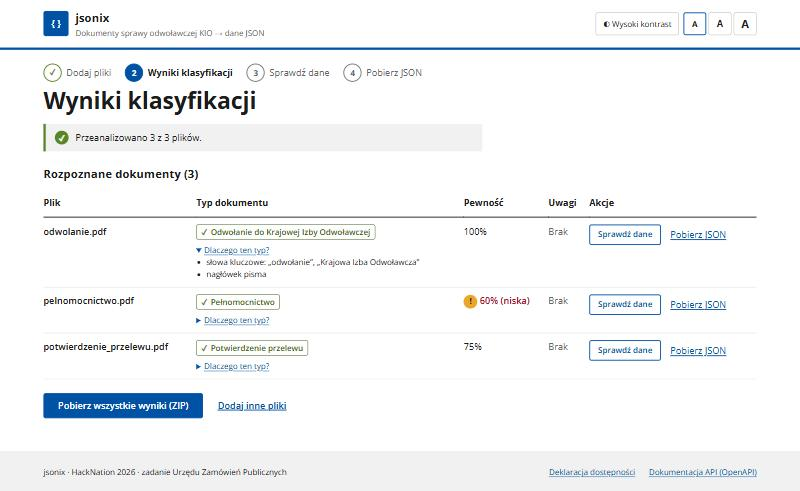
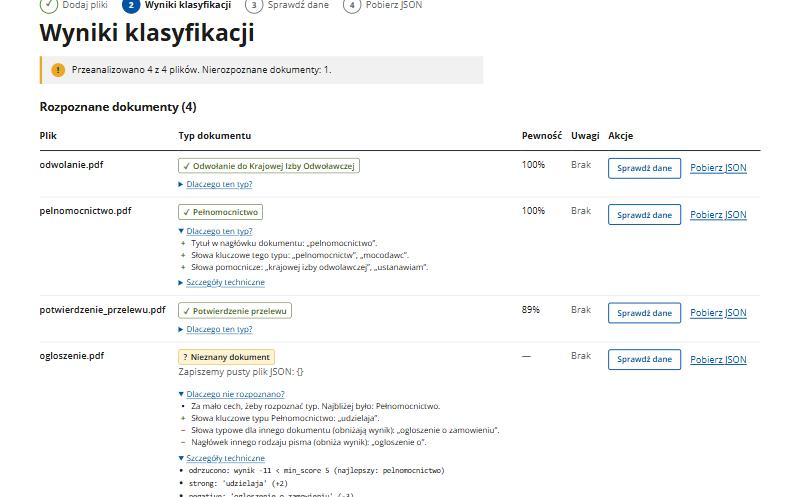
feat(gui): czytelne „Dlaczego ten typ?” i kontrast podświetleń w PDF
- evidence.js: cechy klasyfikatora E3 jako zdania po polsku (tytuł, słowa
  kluczowe i pomocnicze, wzorce, cechy obniżające wynik, powód odrzucenia
  z nazwą najbliższego typu); surowe cechy w „Szczegółach technicznych”
- fix: w trybie wysokiego kontrastu obramowania fragmentów w PDF były żółte
  na białej stronie (ok. 1,1:1); teraz stałe kolory, w kontraście czarne
- testy (Node) dla wszystkich formatów evidence i reguł kontrastu

Changed region(s): [[0.0, 0.0, 1.0, 1.0], [0.5625, 0.5804, 0.9375, 0.7637], [0.6875, 0.947, 0.9688, 0.9776]]

diff --git a/web/static/js/evidence.js b/web/static/js/evidence.js
@@ -1,0 +1,92 @@
+// „Dlaczego ten typ?” — zamiana technicznych opisów cech klasyfikatora (classification.evidence,
+// np. "strong: 'odwolanie' (+2)") na zdania po polsku. Czysta funkcja bez DOM (testy w Node).
+//
+// Formaty z odw2json/classify (E3):
+//   "<rodzaj>: <frazy w apostrofach> (<punkty>)"  rodzaj: strong | weak | negative | title | pattern | foreign title
+//   "odrzucono: wynik X < min_score Y (najlepszy: <typ>)"
+//   "odrzucono: margines X < min_margin Y (najlepszy: <typ>)"
+//   "odrzucono: <typ>: brak wymaganej cechy (required_any: …); <typ>: …"
+// Nieznany format jest pokazywany bez zmian (nowe cechy klasyfikatora nie znikają z GUI).
+
+const FEATURE = /^(strong|weak|negative|title|pattern|foreign title): (.*) \(([+-]?[\d.]+)\)$/;
+const QUOTED = /'((?:[^'\\]|\\.)*)'|"((?:[^"\\]|\\.)*)"/g;
+const NONE_FOUND = "Nie znaleziono cech żadnego z obsługiwanych typów dokumentów.";
+
+function phrases(text) {
+  return [...text.matchAll(QUOTED)].map((m) => m[1] ?? m[2]);
+}
+
+function quoteList(items) {
+  return items.map((p) => `„${p}”`).join(", ");
+}
+
+/** Powód odrzucenia → {text, best}; best = najbliższy typ (cechy w evidence dotyczą właśnie jego). */
+function rejection(rest, label, hasFeatures) {
+  let m = rest.match(/^wynik (-?[\d.]+) < min_score [\d.]+ \(najlepszy: ([\w-]+)\)$/);
+  if (m) {
+    const some = Number(m[1]) > 0 || hasFeatures;
+    return {
+      text: some ? `Za mało cech, żeby rozpoznać typ. Najbliżej było: ${label(m[2])}.` : NONE_FOUND,
+      best: m[2],
+    };
+  }
+  m = rest.match(/^margines [-\d.]+ < min_margin [\d.]+ \(najlepszy: ([\w-]+)\)$/);
+  if (m) {
+    const text = `Dokument pasuje do kilku typów podobnie: przewaga typu ${label(m[1])} jest za mała, żeby go wybrać.`;
+    return { text, best: m[1] };
+  }
+  const types = [...rest.matchAll(/([\w-]+): brak wymaganej cechy/g)].map((x) => label(x[1]));
+  if (types.length) return { text: `Brak cechy wymaganej dla typów: ${types.join(", ")}.`, best: null };
+  return null;
+}
+
+/**
+ * evidence: lista tekstów z classification.evidence.
+ * options: {known: czy typ rozpoznano, label: (id typu) => nazwa do wyświetlenia}.
+ * Zwraca [{text, tone}], tone: "plus" (za typem), "minus" (przeciw), "info".
+ */
+export function explainEvidence(evidence, { known = true, label = (id) => id } = {}) {
+  const list = Array.isArray(evidence) ? evidence.filter((e) => typeof e === "string" && e) : [];
+  const groups = { title: [], strong: [], weak: [], pattern: 0, negative: [], foreign: [] };
+  const head = [];
+  const other = [];
+  const hasFeatures = list.some((e) => FEATURE.test(e));
+  let best = null;
+  for (const raw of list) {
+    if (raw.startsWith("odrzucono: ")) {
+      const why = rejection(raw.slice("odrzucono: ".length), label, hasFeatures);
+      head.push({ text: why?.text ?? raw, tone: "info" });
+      best = why?.best ?? best;
+      continue;
+    }
+    const m = raw.match(FEATURE);
+    if (!m) {
+      other.push({ text: raw, tone: "info" });
+      continue;
+    }
+    const [, kind, body] = m;
+    if (kind === "pattern") groups.pattern += 1;
+    else if (kind === "foreign title") groups.foreign.push(...phrases(body));
+    else groups[kind].push(...phrases(body));
+  }
+  const out = [...head];
+  // rozpoznany typ: „tego typu”; odrzucony dokument: cechy najbliższego typu, nazwane wprost
+  const ofType = best ? `typu ${label(best)}` : "tego typu";
+  if (groups.title.length) out.push({ text: `Tytuł w nagłówku dokumentu: ${quoteList(groups.title)}.`, tone: "plus" });
+  if (groups.strong.length) out.push({ text: `Słowa kluczowe ${ofType}: ${quoteList(groups.strong)}.`, tone: "plus" });
+  if (groups.weak.length) out.push({ text: `Słowa pomocnicze: ${quoteList(groups.weak)}.`, tone: "plus" });
+  if (groups.pattern) out.push({ text: `Pasujące wzorce tekstu: ${groups.pattern}.`, tone: "plus" });
+  if (groups.negative.length) {
+    out.push({
+      text: `Słowa typowe dla innego dokumentu (obniżają wynik): ${quoteList(groups.negative)}.`,
+      tone: "minus",
+    });
+  }
+  if (groups.foreign.length) {
+    out.push({ text: `Nagłówek innego rodzaju pisma (obniża wynik): ${quoteList(groups.foreign)}.`, tone: "minus" });
+  }
+  out.push(...other);
+  if (!out.length && !known) out.push({ text: NONE_FOUND, tone: "info" });
+  // „Nic nie znaleziono” jako jedyny powód: bez powtarzania tej samej informacji
+  return out.filter((s, i) => s.text !== NONE_FOUND || out.findIndex((x) => x.text === NONE_FOUND) === i);
+}

diff --git a/web/static/css/app.css b/web/static/css/app.css
@@ -256,6 +256,13 @@ html[data-contrast="high"] .tag-unknown { background: #000; color: #ff0; }
 .why { margin-top: .5rem; font-size: .875rem; }
 .why summary { cursor: pointer; color: var(--link); text-decoration: underline; text-underline-offset: .15em; width: fit-content; }
 .why ul { margin: .25rem 0 0; padding-left: 1.1rem; }
+.why-list { list-style: none; padding-left: 0 !important; }
+.why-list li { display: flex; gap: .375rem; align-items: baseline; }
+.why-icon { flex: none; width: 1rem; text-align: center; font-weight: 700; }
+.why-plus .why-icon { color: var(--green-text); }
+.why-minus .why-icon { color: var(--red-dark); }
+.why-raw { margin-top: .375rem; }
+.why-raw code { font-size: .8125rem; overflow-wrap: anywhere; }
 .muted { color: var(--muted); }
 
 /* --- ekran „Sprawdź dane”: pola obok dokumentu --- */
@@ -304,15 +311,20 @@ html[data-contrast="high"] .field.is-selected { background: #000; border-color: 
 .pdf-page { position: relative; margin: 0 auto 12px; background: #fff; box-shadow: 0 1px 4px rgba(0, 0, 0, .3); }
 .pdf-page canvas { display: block; }
 .hl-layer { position: absolute; inset: 0; pointer-events: none; z-index: 3; }
+/* Strona PDF jest zawsze biała (także w trybie wysokiego kontrastu), więc kolory podświetleń są stałe,
+   a nie ze zmiennych motywu: w wysokim kontraście --blue-dark = #ff0, co na bieli daje ok. 1,1:1. */
 .hl-box {
   position: absolute; pointer-events: auto; cursor: pointer;
-  border: 2px dashed var(--blue-dark); border-radius: 2px; background: rgba(0, 108, 215, .06);
+  border: 2px dashed #0052a5; border-radius: 2px; background: rgba(0, 108, 215, .06);
 }
-.hl-box:hover { border-style: solid; border-color: var(--blue-dark); }
+.hl-box:hover { border-style: solid; border-color: #0052a5; }
 /* podgląd: pełne obramowanie 3px (#0052a5 na białym 7,8:1) + etykieta pola; bez żółtego tła zaznaczenia */
-.hl-box.is-preview { border: 3px solid var(--blue-dark); background: rgba(0, 108, 215, .14); }
-html[data-contrast="high"] .hl-box.is-preview { border-color: #ff0; background: rgba(0, 0, 0, .25); }
-.hl-box.is-active { border: 3px solid var(--black); background: rgba(235, 168, 40, .35); box-shadow: 0 0 0 2px var(--yellow); }
+.hl-box.is-preview { border: 3px solid #0052a5; background: rgba(0, 108, 215, .14); }
+.hl-box.is-active { border: 3px solid #1b1b1b; background: rgba(235, 168, 40, .35); box-shadow: 0 0 0 2px #eba828; }
+/* wysoki kontrast: czarne obramowania na białej stronie (21:1), zaznaczenie dodatkowo grubsze */
+html[data-contrast="high"] .hl-box { border-color: #000; }
+html[data-contrast="high"] .hl-box.is-preview { border-color: #000; background: rgba(0, 0, 0, .12); }
+html[data-contrast="high"] .hl-box.is-active { border-width: 4px; border-color: #000; }
 .hl-label {
   position: absolute; left: -3px; bottom: 100%; margin-bottom: 3px; white-space: nowrap;
   font: 600 .75rem/1.2 var(--font); color: var(--black); background: var(--yellow);

diff --git a/web/static/js/app.js b/web/static/js/app.js
@@ -12,6 +12,7 @@ import {
   showScreen,
   setTitle,
 } from "./ui.js";
+import { explainEvidence } from "./evidence.js";
 
 const MAX_FILE_BYTES = 25 * 1024 * 1024;
 const MAX_FILE_LABEL = "25 MB";
@@ -293,13 +294,34 @@ function confidenceCell(cls) {
   return el("td", { text: pct });
 }
 
-/** Rozwijane uzasadnienie klasyfikacji (classification.evidence); brak uzasadnienia → nic. */
+const WHY_ICON = { plus: "+", minus: "−", info: "•" };
+
+/**
+ * Rozwijane uzasadnienie klasyfikacji: zdania po polsku (evidence.js) i surowe cechy klasyfikatora
+ * w „Szczegółach technicznych” (transparentność). Brak uzasadnienia dla rozpoznanego typu → nic.
+ */
 function whyDetails(cls, title) {
-  const evidence = Array.isArray(cls.evidence) ? cls.evidence.filter((e) => typeof e === "string" && e) : [];
-  if (!evidence.length) return null;
+  const raw = Array.isArray(cls.evidence) ? cls.evidence.filter((e) => typeof e === "string" && e) : [];
+  const reasons = explainEvidence(raw, { known: Boolean(cls.doc_type), label: doctypeLabel });
+  if (!reasons.length) return null;
   return el("details", { class: "why" }, [
     el("summary", { text: title }),
-    el("ul", {}, evidence.map((e) => el("li", { text: e }))),
+    el(
+      "ul",
+      { class: "why-list" },
+      reasons.map((r) =>
+        el("li", { class: `why-${r.tone}` }, [
+          el("span", { class: "why-icon", "aria-hidden": "true", text: WHY_ICON[r.tone] || "•" }),
+          el("span", { text: r.text }),
+        ]),
+      ),
+    ),
+    raw.length
+      ? el("details", { class: "why-raw" }, [
+          el("summary", { text: "Szczegóły techniczne" }),
+          el("ul", {}, raw.map((e) => el("li", {}, [el("code", { text: e })]))),
+        ])
+      : null,
   ]);
 }
 

diff --git a/tests/test_gui_static.py b/tests/test_gui_static.py
@@ -529,3 +529,87 @@ def test_gui_limits_number_of_files_like_api(client):
     js = client.get("/static/js/app.js").text
     assert re.search(r"MAX_FILES\s*=\s*50\b", js)
     assert api.MAX_FILES == 50
+
+
+# --- czytelne „Dlaczego ten typ?” (evidence z klasyfikatora E3) ---
+
+EVIDENCE_ODWOLANIE = [
+    "strong: 'odwolanie' (+2)",
+    "strong: 'odwolujacy' (+2)",
+    "strong: 'zarzut' (+2)",
+    "weak: 'zamawiajacy' (+1)",
+    "weak: 'wnosze o' (+1)",
+    "negative: 'ogloszenie o zamowieniu' (-3)",
+    "title: 'odwolanie' (+4)",
+    "pattern: 'odwolujacy:' (+3)",
+    "pattern: 'zarzut nr \\d+' (+3)",
+]
+
+
+@needs_node
+def test_evidence_is_explained_in_plain_polish():
+    out = _node(
+        """const e = await js('evidence.js');
+        const label = (id) => ({odwolanie: 'Odwołanie', pelnomocnictwo: 'Pełnomocnictwo'})[id] || id;
+        const no = (ev) => e.explainEvidence(ev, {known: false, label});
+        const best = (b) => `(najlepszy: ${b})`;
+        output({
+          known: e.explainEvidence(input.ev, {known: true, label}),
+          low: no([`odrzucono: wynik 3 < min_score 5 ${best('pelnomocnictwo')}`, "strong: 'udzielam' (+2)"]),
+          zero: no([`odrzucono: wynik 0 < min_score 5 ${best('pelnomocnictwo')}`]),
+          margin: no([`odrzucono: margines 0.5 < min_margin 1 ${best('odwolanie')}`]),
+          required: no(['odrzucono: odwolanie: brak wymaganej cechy (required_any: zarzut); '
+                        + 'przelew: brak wymaganej cechy (required_any: kwota)']),
+          foreign: no(["foreign title: 'wyrok' (-10)"]),
+          negScore: no([`odrzucono: wynik -11 < min_score 5 ${best('pelnomocnictwo')}`,
+                        "strong: 'udzielaja' (+2)", "foreign title: 'ogloszenie o' (-10)"]),
+          empty: no([]),
+          odd: e.explainEvidence(['nowy format cechy'], {known: true, label}),
+        });""",
+        {"ev": EVIDENCE_ODWOLANIE},
+    )
+    known = [s["text"] for s in out["known"]]
+    assert known[0] == "Tytuł w nagłówku dokumentu: „odwolanie”."
+    assert "Słowa kluczowe tego typu: „odwolanie”, „odwolujacy”, „zarzut”." in known
+    assert "Słowa pomocnicze: „zamawiajacy”, „wnosze o”." in known
+    assert "Pasujące wzorce tekstu: 2." in known
+    assert "Słowa typowe dla innego dokumentu (obniżają wynik): „ogloszenie o zamowieniu”." in known
+    assert all("(+" not in t and "strong" not in t for t in known), "bez technicznych etykiet i punktów"
+    assert {s["tone"] for s in out["known"]} <= {"plus", "minus", "info"}
+
+    low = [s["text"] for s in out["low"]]
+    assert low[0] == "Za mało cech, żeby rozpoznać typ. Najbliżej było: Pełnomocnictwo."
+    assert "Słowa kluczowe typu Pełnomocnictwo: „udzielam”." in low
+    zero = [s["text"] for s in out["zero"]]
+    assert zero == ["Nie znaleziono cech żadnego z obsługiwanych typów dokumentów."]
+    assert out["margin"][0]["text"].startswith("Dokument pasuje do kilku typów podobnie")
+    assert "Odwołanie" in out["margin"][0]["text"]
+    req = out["required"][0]["text"]
+    assert req.startswith("Brak cechy wymaganej dla typów:") and "Odwołanie" in req and "przelew" in req
+    assert out["foreign"][0]["text"] == "Nagłówek innego rodzaju pisma (obniża wynik): „wyrok”."
+    nothing = "Nie znaleziono cech żadnego z obsługiwanych typów dokumentów."
+    assert [s["text"] for s in out["empty"]] == [nothing]
+    neg = [s["text"] for s in out["negScore"]]
+    closest = "Za mało cech, żeby rozpoznać typ. Najbliżej było: Pełnomocnictwo."
+    assert neg[0] == closest, "cechy są, więc nie „nic”"
+    assert "Słowa kluczowe typu Pełnomocnictwo: „udzielaja”." in neg
+    assert out["odd"][0]["text"] == "nowy format cechy", "nieznany format: pokaż bez zmian"
+
+
+def test_results_show_readable_reasons_and_raw_details(client):
+    js = client.get("/static/js/app.js").text
+    assert "explainEvidence" in js
+    assert "Szczegóły techniczne" in js
+
+
+def test_pdf_highlights_keep_contrast_on_white_page_in_high_contrast_mode(client):
+    """Strona PDF zostaje biała: obramowania nie mogą brać koloru motywu (#ff0 na bieli ≈ 1,1:1)."""
+    css = client.get("/static/css/app.css").text
+    rules = re.findall(r"([^{}]*\.hl-box[^{}]*)\{([^}]*)\}", css)
+    assert rules
+    for selector, body in rules:
+        if "border" in body:
+            assert "var(--" not in body.split("background")[0], f"kolor z motywu w {selector.strip()}"
+            assert "#ff0" not in body.lower(), f"żółte obramowanie na białej stronie: {selector.strip()}"
+    high = [b for s, b in rules if 'data-contrast="high"' in s and ".is-preview" in s]
+    assert high and "#000" in high[0]
